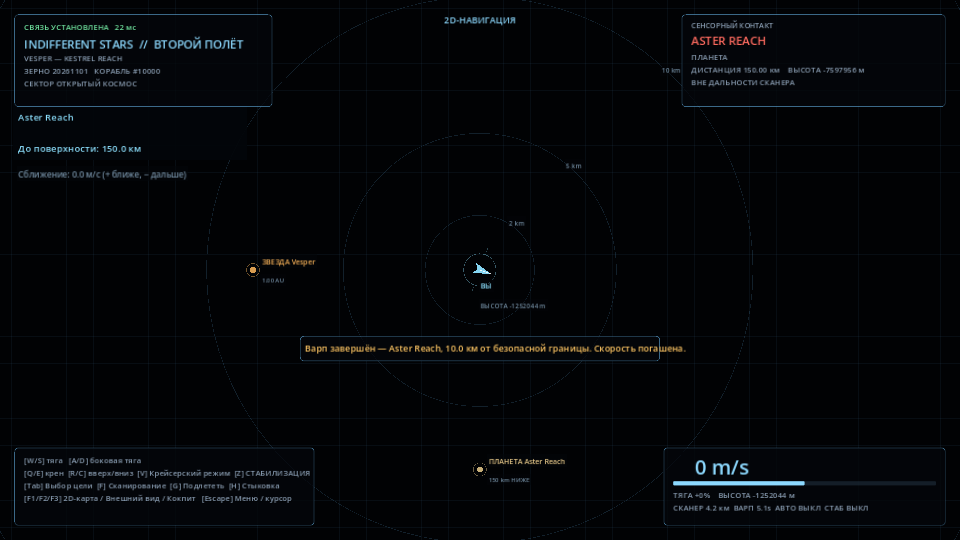
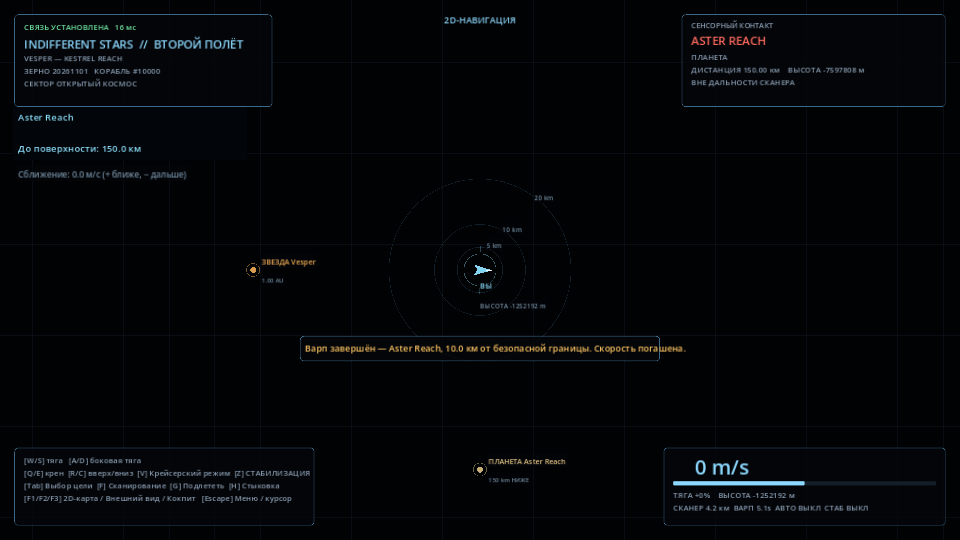
fix(navigation): allow authoritative waypoint departure in tactical view

diff --git a/src/IndifferentStars.Shared/Protocol/ProtocolCodec.cs b/src/IndifferentStars.Shared/Protocol/ProtocolCodec.cs
@@ -112,6 +112,8 @@ public static class ProtocolCodec
                     writer.Write(entity.FlightAssist);
                     writer.Write(entity.ApproachFollowing);
                     writer.Write(entity.Cruising);
+                    writer.Write(entity.ApproachPoint.HasValue);
+                    if (entity.ApproachPoint is { } point) WriteVec3(writer, point);
                 }
                 break;
 
@@ -162,6 +164,8 @@ public static class ProtocolCodec
             case ApproachRequestMessage approach:
                 writer.Write(approach.TargetId);
                 writer.Write(approach.Follow);
+                writer.Write(approach.Waypoint.HasValue);
+                if (approach.Waypoint is { } waypoint) WriteVec3(writer, waypoint);
                 break;
 
             case ApproachResultMessage approachResult:
@@ -321,7 +325,7 @@ public static class ProtocolCodec
                 MessageType.Disconnect => new DisconnectMessage(
                     ReadString(reader, ProtocolConstants.MaxStringBytes)),
 
-                MessageType.ApproachRequest => new ApproachRequestMessage(reader.ReadUInt32(), reader.ReadBoolean()),
+                MessageType.ApproachRequest => new ApproachRequestMessage(reader.ReadUInt32(), reader.ReadBoolean(), ReadOptionalVec3(reader)),
                 MessageType.ApproachResult => new ApproachResultMessage(reader.ReadUInt32(), reader.ReadBoolean()),
                 MessageType.DockRequest => new DockRequestMessage(reader.ReadUInt32(), reader.ReadBoolean()),
                 MessageType.DockResult => new DockResultMessage(reader.ReadBoolean(), reader.ReadBoolean()),
@@ -399,7 +403,8 @@ public static class ProtocolCodec
                 reader.ReadBoolean(),
                 reader.ReadBoolean(),
                 reader.ReadBoolean(),
-                reader.ReadBoolean());
+                reader.ReadBoolean(),
+                ReadOptionalVec3(reader));
         }
 
         return new SnapshotMessage(tick, serverTimeMs, entities);
@@ -465,6 +470,8 @@ public static class ProtocolCodec
 
     private static Vec3d ReadVec3(BinaryReader reader) =>
         new(reader.ReadDouble(), reader.ReadDouble(), reader.ReadDouble());
+
+    private static Vec3d? ReadOptionalVec3(BinaryReader reader) => reader.ReadBoolean() ? ReadVec3(reader) : null;
 
     private static void WriteString(BinaryWriter writer, string value, int maxBytes)
     {

diff --git a/tests/IndifferentStars.Tests/ApproachPilotTests.cs b/tests/IndifferentStars.Tests/ApproachPilotTests.cs
@@ -6,6 +6,51 @@ namespace IndifferentStars.Tests;
 
 public sealed class ApproachPilotTests
 {
+    [Fact]
+    public void WaypointDepartureAllowsCruiseWithoutManualPiloting()
+    {
+        var catalog = WorldCatalog.Generate(20261101);
+        var world = new GameWorld(catalog);
+        var ship = world.AddPlayer("Captain");
+        var start = ship.Position;
+        var destination = new Vec3d(-30_000, ship.Position.Y, 0);
+        Assert.True(world.StartMove(ship.Id, destination));
+        Assert.Equal(start, ship.Position);
+        Assert.Equal(destination, world.BuildSnapshot().Single(entity => entity.Id == ship.Id).ApproachPoint);
+        for (var i = 0; i < 6000 && ship.ApproachTargetId != 0; i++)
+        {
+            world.ApplyInput(ship.Id, InputState.None);
+            world.Tick(0.05);
+        }
+        Assert.Equal(0u, ship.ApproachTargetId);
+        Assert.True(ApproachPilot.Arrived(ship, destination));
+        for (var i = 0; i < 20; i++)
+        {
+            world.ApplyInput(ship.Id, InputState.None with { Throttle = 1, Cruise = true });
+            world.Tick(0.05);
+        }
+        Assert.True(ship.Cruising);
+        Assert.True(world.Warp(ship.Id, (uint)catalog.Planet.Id, 10000).Success);
+    }
+
+    [Fact]
+    public void InvalidWaypointCannotReplaceOrderOrTeleportPlayer()
+    {
+        var world = new GameWorld(WorldCatalog.Generate(20261101));
+        var ship = world.AddPlayer("Captain");
+        var position = ship.Position;
+        var destination = position + new Vec3d(5000, 0, 0);
+        Assert.True(world.StartMove(ship.Id, destination));
+        Assert.False(world.StartMove(ship.Id, new Vec3d(double.NaN, 0, 0)));
+        Assert.False(world.StartMove(ship.Id, new Vec3d(double.MaxValue, 0, 0)));
+        Assert.Equal(destination, ship.ApproachDestination);
+        Assert.Equal(position, ship.Position);
+        world.ApplyInput(ship.Id, InputState.None with { Strafe = 1 });
+        Assert.Equal(0u, ship.ApproachTargetId);
+        ship.Docked = true;
+        Assert.False(world.StartMove(ship.Id, destination));
+    }
+
     [Theory]
     [InlineData(1000, 200, -2500)]
     [InlineData(0, 0, 2000)]

diff --git a/client/scripts/GameMain.cs b/client/scripts/GameMain.cs
@@ -38,6 +38,7 @@ public sealed partial class GameMain : Node3D
     private TacticalView _tactical = null!;
     private CanvasLayer _tacticalLayer = null!;
     private PopupMenu _contactMenu = null!;
+    private Vec3d _mapDestination;
     private StationView _stationView = null!;
     private ClientSettings _settings = null!;
     private SettingsMenu _settingsMenu = null!;
@@ -375,9 +376,18 @@ public sealed partial class GameMain : Node3D
                     _hasTarget = true;
                     if (mouse.ButtonIndex == MouseButton.Right)
                     {
+                        BuildContactMenu();
                         _contactMenu.Position = (Vector2I)GetViewport().GetMousePosition();
                         _contactMenu.Popup();
                     }
+                }
+                else if (mouse.ButtonIndex == MouseButton.Right)
+                {
+                    _mapDestination = _tactical.WorldPositionAt(mouse.Position);
+                    _contactMenu.Clear();
+                    _contactMenu.AddItem(Locale.Text("context_move_point"), 9);
+                    _contactMenu.Position = (Vector2I)GetViewport().GetMousePosition();
+                    _contactMenu.Popup();
                 }
             }
         }
@@ -454,6 +464,12 @@ public sealed partial class GameMain : Node3D
             else if (id == 6) RequestWarp(5000);
             else if (id == 7) RequestApproach(true);
             else if (id == 8) RequestWarp(10000);
+            else if (id == 9)
+            {
+                _cruise = false;
+                _cruiseStopping = false;
+                _net?.RequestApproach(0, waypoint: _mapDestination);
+            }
         };
         AddChild(_contactMenu);
         BuildContactMenu();
@@ -599,6 +615,7 @@ public sealed partial class GameMain : Node3D
         _tactical.TargetId = _targetId;
         _tactical.HasTarget = _hasTarget;
         _tactical.ApproachTargetId = _playerShip?.Track.ApproachTargetId ?? 0;
+        _tactical.ApproachPoint = _playerShip?.Track.ApproachPoint;
 
         _tactical.Contacts.Clear();
         foreach (var ship in _remoteShips.Values.Where(s => s.Track.HasData))

diff --git a/client/scripts/TacticalView.cs b/client/scripts/TacticalView.cs
@@ -38,6 +38,7 @@ public sealed partial class TacticalView : Control
     public uint TargetId { get; set; }
     public bool HasTarget { get; set; }
     public uint ApproachTargetId { get; set; }
+    public Vec3d? ApproachPoint { get; set; }
     public double ZoomRange { get; private set; } = 8500;
     private double _targetZoom = 8500;
     private Vec3d _center = Vec3d.Zero;
@@ -73,7 +74,13 @@ public sealed partial class TacticalView : Control
         DrawRangeRings(center, scale, size);
         DrawSectorBoundaries(center, scale, size);
         DrawAsteroids(center, scale, size);
-        if (ApproachTargetId != 0 && Catalog?.Find((int)ApproachTargetId) is { } destination)
+        if (ApproachPoint is { } point)
+        {
+            var endpoint = Project(center, scale, point);
+            DrawLine(Project(center, scale, PlayerPosition), endpoint, PlayerColor, 1.5f);
+            DrawArc(endpoint, 6, 0, Mathf.Tau, 20, PlayerColor, 1.5f);
+        }
+        else if (ApproachTargetId != 0 && Catalog?.Find((int)ApproachTargetId) is { } destination)
             DrawLine(Project(center, scale, PlayerPosition), Project(center, scale, destination.Position), new Color(0.55f, 0.9f, 0.8f, 0.8f), 1.5f);
         else if (ApproachTargetId != 0 && Contacts.Find(contact => contact.Id == ApproachTargetId) is { } movingDestination)
             DrawLine(Project(center, scale, PlayerPosition), Project(center, scale, movingDestination.Position), new Color(0.55f, 0.9f, 0.8f, 0.8f), 1.5f);
@@ -133,6 +140,13 @@ public sealed partial class TacticalView : Control
 
     public Vector2 ScreenPosition(Vec3d world) =>
         Project(Size * 0.5f, (float)(Math.Min(Size.X, Size.Y) * 0.43 / ZoomRange), world);
+
+    public Vec3d WorldPositionAt(Vector2 screen)
+    {
+        var scale = Math.Min(Size.X, Size.Y) * 0.43 / ZoomRange;
+        var offset = screen - Size * 0.5f;
+        return new Vec3d(_center.X + offset.X / scale, PlayerPosition.Y, _center.Z + offset.Y / scale);
+    }
 
     private void DrawGrid(Vector2 center, float scale, Vector2 size)
     {

diff --git a/client/tests/FlightChecks.cs b/client/tests/FlightChecks.cs
@@ -45,6 +45,21 @@ public sealed partial class FlightChecks : Node
             Tap(Key.F1); await Pause(0.1);
             for (var i = 0; i < 50 && tactical.TargetId != catalog.Planet.Id; i++) { Tap(Key.Tab); await Pause(0.06); }
             Check(tactical.TargetId == catalog.Planet.Id, "Keyboard targeting must include the known planet.");
+            tactical.ZoomAt(tactical.Size / 2, 6);
+            await Pause(1);
+            var waypoint = pilot.Track.WorldPosition + new Vec3d(-30_000, 0, 0);
+            game._UnhandledInput(new InputEventMouseButton
+            {
+                ButtonIndex = MouseButton.Right, Pressed = true, Position = tactical.ScreenPosition(waypoint),
+            });
+            var menu = game.FindChildren("*", "PopupMenu", true, false).Cast<PopupMenu>().First();
+            Check(menu.GetItemIndex(9) >= 0, "Empty map space must offer a waypoint order.");
+            menu.EmitSignal(PopupMenu.SignalName.IdPressed, 9L);
+            menu.Hide();
+            await Pause(1);
+            Check(pilot.Track.ApproachPoint is { } point && Vec3d.Distance(point, waypoint) < 0.1,
+                "2D waypoint must reach the server and appear in the authoritative snapshot.");
+            await Capture(output, "waypoint_tactical");
             Tap(Key.F2);
             var start = pilot.Track.WorldPosition;
             GD.Print("FLIGHT CHECK: leaving station at local boost.");

diff --git a/tests/IndifferentStars.Tests/ServerIntegrationTests.cs b/tests/IndifferentStars.Tests/ServerIntegrationTests.cs
@@ -19,7 +19,7 @@ namespace IndifferentStars.Tests;
 public sealed class ServerIntegrationTests
 {
     [Fact]
-    public void TwoClientsObserveCruiseRejectionNearStationAndCannotForceSystemWarp()
+    public void TwoClientsObserveCruiseSafetyAndAuthoritativeWaypoints()
     {
         var catalog = WorldCatalog.Generate(2026);
         var world = new GameWorld(catalog);
@@ -48,6 +48,13 @@ public sealed class ServerIntegrationTests
             Assert.NotNull(rejected);
             Assert.False(rejected!.Success);
             Assert.Contains("cruise", rejected.Message);
+            var destination = new IndifferentStars.Shared.Vec3d(-30_000, 260, 0);
+            Send(pilot, new ApproachRequestMessage(0, Waypoint: destination));
+            Assert.True(WaitFor<ApproachResultMessage>(pilot, message => message.TargetId == 0)?.Accepted);
+            Assert.NotNull(WaitFor<SnapshotMessage>(observer, message => System.Array.Exists(message.Entities,
+                entity => entity.Id == welcome!.PlayerId && entity.ApproachPoint is { } point && point.Equals(destination))));
+            Send(pilot, new ApproachRequestMessage(0, Waypoint: new IndifferentStars.Shared.Vec3d(double.NaN, 0, 0)));
+            Assert.False(WaitFor<ApproachResultMessage>(pilot, message => message.TargetId == 0)?.Accepted);
         }
         finally
         {

diff --git a/tests/IndifferentStars.Tests/ProtocolTests.cs b/tests/IndifferentStars.Tests/ProtocolTests.cs
@@ -20,7 +20,7 @@ public sealed class ProtocolTests
             new InputMessage(1234, 127, -127, 64, -32, true, false, 50, -60, true, true),
             new SnapshotMessage(100, 5000, new[]
             {
-                new EntitySnapshot(7, EntityKind.Player, "Captain Vega", new Vec3d(1.5, 2.5, 3.5), 0.5f, -0.2f, new Vec3d(10, 0, -4), 127, System.Numerics.Quaternion.CreateFromYawPitchRoll(0.5f, -0.2f, 0.7f), 5000, false, false, true, true, true),
+                new EntitySnapshot(7, EntityKind.Player, "Captain Vega", new Vec3d(1.5, 2.5, 3.5), 0.5f, -0.2f, new Vec3d(10, 0, -4), 127, System.Numerics.Quaternion.CreateFromYawPitchRoll(0.5f, -0.2f, 0.7f), 5000, false, false, true, true, true, new Vec3d(30_000, 260, 0)),
                 new EntitySnapshot(5000, EntityKind.Npc, "Dawn Trader", new Vec3d(-400, 80, 1200), 3.1f, 0.1f, new Vec3d(-40, 0, -70), 90),
             }),
             new ScanRequestMessage(9, 1001),
@@ -31,6 +31,7 @@ public sealed class ProtocolTests
             new PongMessage(987654321),
             new DisconnectMessage("leaving"),
             new ApproachRequestMessage(1001, true),
+            new ApproachRequestMessage(0, Waypoint: new Vec3d(30_000, 260, 0)),
             new ApproachResultMessage(1001, true),
             new DockRequestMessage(3, false),
             new DockResultMessage(false, true),

diff --git a/src/IndifferentStars.Simulation/GameWorld.cs b/src/IndifferentStars.Simulation/GameWorld.cs
@@ -113,6 +113,18 @@ public sealed class GameWorld
         slot.AgeSeconds = 0;
     }
 
+    public bool StartMove(uint playerId, Vec3d destination)
+    {
+        var ship = GetPlayer(playerId);
+        if (ship is null || ship.Docked || !destination.IsFinite || !double.IsFinite(Vec3d.Distance(ship.Position, destination)))
+            return false;
+        ship.ApproachTargetId = ship.Id;
+        ship.ApproachFollowing = false;
+        ship.ApproachDestination = destination;
+        ship.DockingGranted = false;
+        return true;
+    }
+
     public bool StartApproach(uint playerId, uint targetId, bool follow = false)
     {
         var player = GetPlayer(playerId);
@@ -515,7 +527,8 @@ public sealed class GameWorld
         ship.DockingGranted,
         ship.FlightAssist,
         ship.ApproachTargetId != 0 && ship.ApproachFollowing,
-        ship.Cruising);
+        ship.Cruising,
+        ship.ApproachTargetId == ship.Id ? ship.ApproachDestination : null);
 
     private static string DescribeVessel(ShipState npc, string language)
     {

diff --git a/src/IndifferentStars.Shared/Protocol/Messages.cs b/src/IndifferentStars.Shared/Protocol/Messages.cs
@@ -5,7 +5,7 @@ namespace IndifferentStars.Shared.Protocol;
 
 public static class ProtocolConstants
 {
-    public const byte Version = 9;
+    public const byte Version = 10;
     public const byte Magic0 = (byte)'I';
     public const byte Magic1 = (byte)'S';
     public const int HeaderSize = 4;
@@ -115,7 +115,8 @@ public sealed record EntitySnapshot(
     bool DockingGranted = false,
     bool FlightAssist = false,
     bool ApproachFollowing = false,
-    bool Cruising = false)
+    bool Cruising = false,
+    Vec3d? ApproachPoint = null)
 {
 }
 
@@ -174,7 +175,7 @@ public sealed record DisconnectMessage(string Reason) : IProtocolMessage
     public MessageType Type => MessageType.Disconnect;
 }
 
-public sealed record ApproachRequestMessage(uint TargetId, bool Follow = false) : IProtocolMessage
+public sealed record ApproachRequestMessage(uint TargetId, bool Follow = false, Vec3d? Waypoint = null) : IProtocolMessage
 {
     public MessageType Type => MessageType.ApproachRequest;
 }

diff --git a/client/tests/EffectsChecks.cs b/client/tests/EffectsChecks.cs
@@ -62,6 +62,12 @@ public sealed partial class EffectsChecks : Node3D
             ship.SetEngineEffects(false);
             Check(jets.All(jet => !jet.Visible), "Engine quality switch must hide maneuver effects.");
             ship.QueueFree();
+            var map = new TacticalView { PlayerPosition = new Vec3d(2000, 1500, 35000) };
+            AddChild(map);
+            var waypoint = new Vec3d(-2000, 1500, 25000);
+            Check(Vec3d.Distance(map.WorldPositionAt(map.ScreenPosition(waypoint)), waypoint) < 0.01,
+                "Map waypoints must invert projection and preserve the ship's height.");
+            map.QueueFree();
             await ToSignal(GetTree(), SceneTree.SignalName.ProcessFrame);
             GD.Print("Effects checks passed: world trails, origin shift, hull rotation, expiry, warp reset, maneuver ports, quality switch.");
 

diff --git a/src/IndifferentStars.Server/UdpGameServer.cs b/src/IndifferentStars.Server/UdpGameServer.cs
@@ -175,7 +175,10 @@ public sealed class UdpGameServer : IDisposable
                 if (_sessionsByEndpoint.TryGetValue(endpoint, out var pilot))
                 {
                     pilot.LastSeenSeconds = now;
-                    Send(endpoint, new ApproachResultMessage(approach.TargetId, _world.StartApproach(pilot.PlayerId, approach.TargetId, approach.Follow)));
+                    var accepted = approach.Waypoint is { } point
+                        ? approach.TargetId == 0 && !approach.Follow && _world.StartMove(pilot.PlayerId, point)
+                        : _world.StartApproach(pilot.PlayerId, approach.TargetId, approach.Follow);
+                    Send(endpoint, new ApproachResultMessage(approach.TargetId, accepted));
                 }
                 break;
 

diff --git a/client/scripts/ShipTrack.cs b/client/scripts/ShipTrack.cs
@@ -43,6 +43,7 @@ public sealed class ShipTrack
     public bool FlightAssist { get; private set; }
     public bool ApproachFollowing { get; private set; }
     public bool Cruising { get; private set; }
+    public Vec3d? ApproachPoint { get; private set; }
 
     public static Vector3 ToVector3(Vec3d value) => new((float)value.X, (float)value.Y, (float)value.Z);
 
@@ -58,6 +59,7 @@ public sealed class ShipTrack
         FlightAssist = snapshot.FlightAssist;
         ApproachFollowing = snapshot.ApproachFollowing;
         Cruising = snapshot.Cruising;
+        ApproachPoint = snapshot.ApproachPoint;
         var position = snapshot.Position;
         var sampleTime = receivedAt;
 
